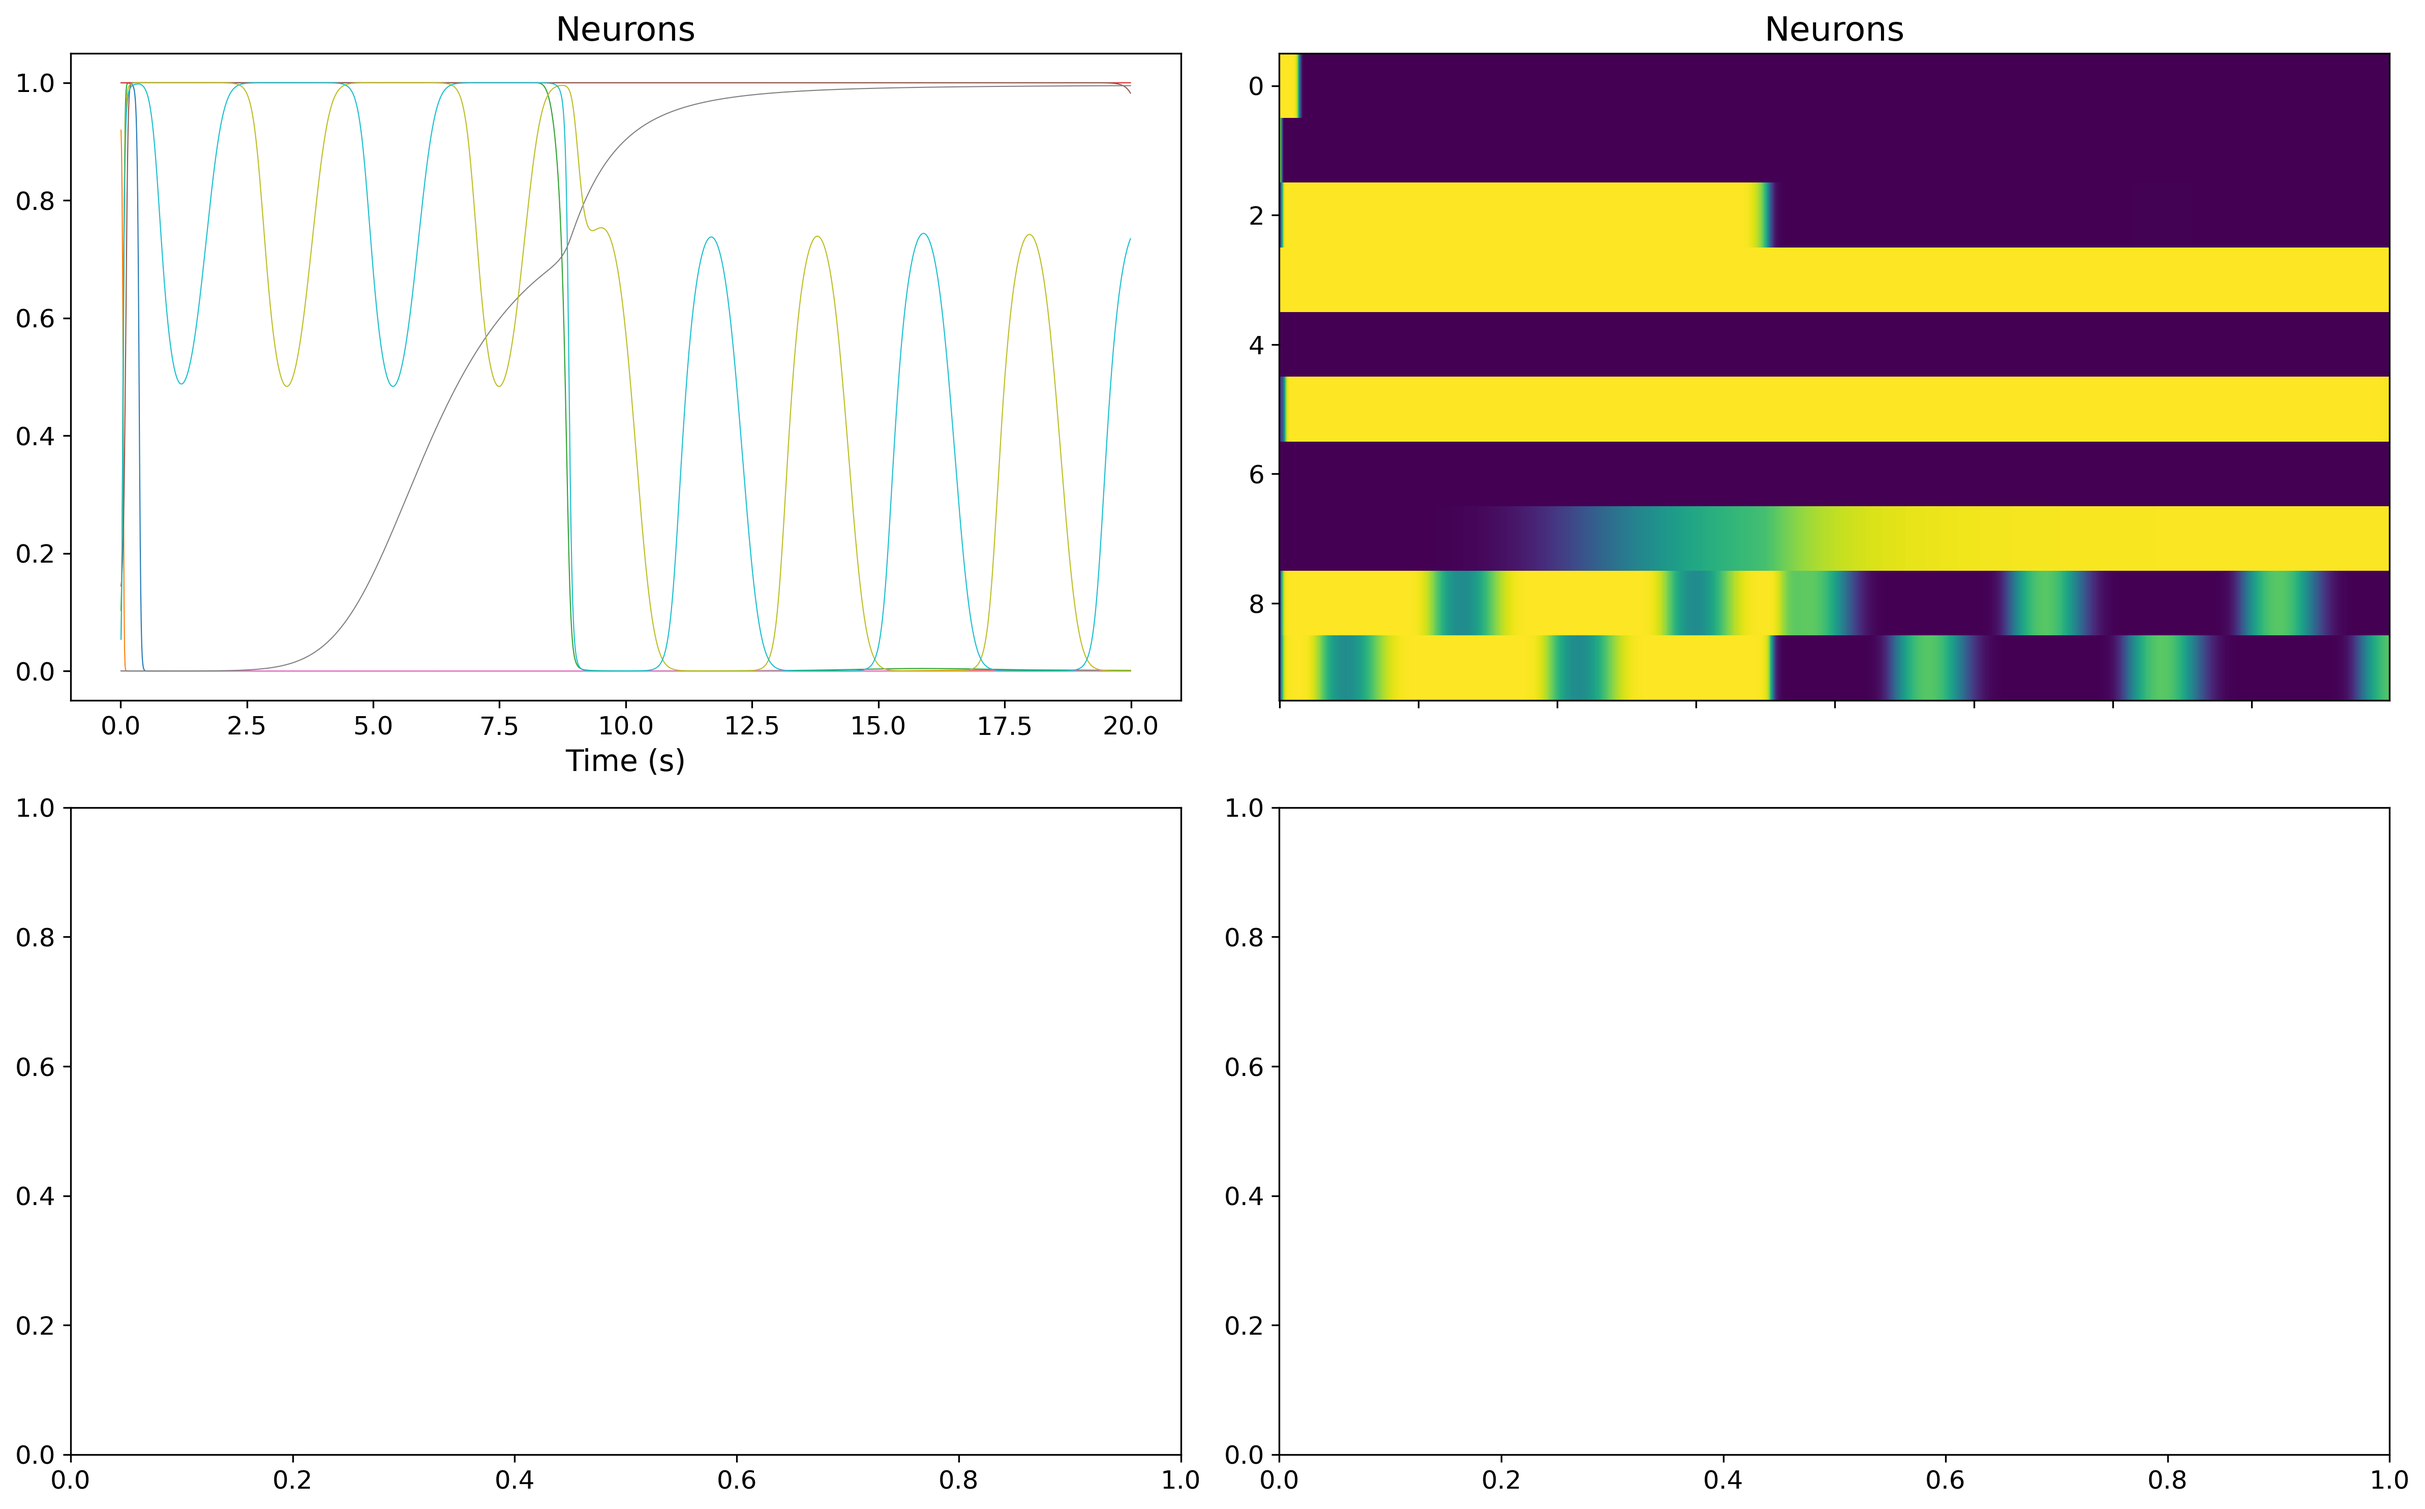
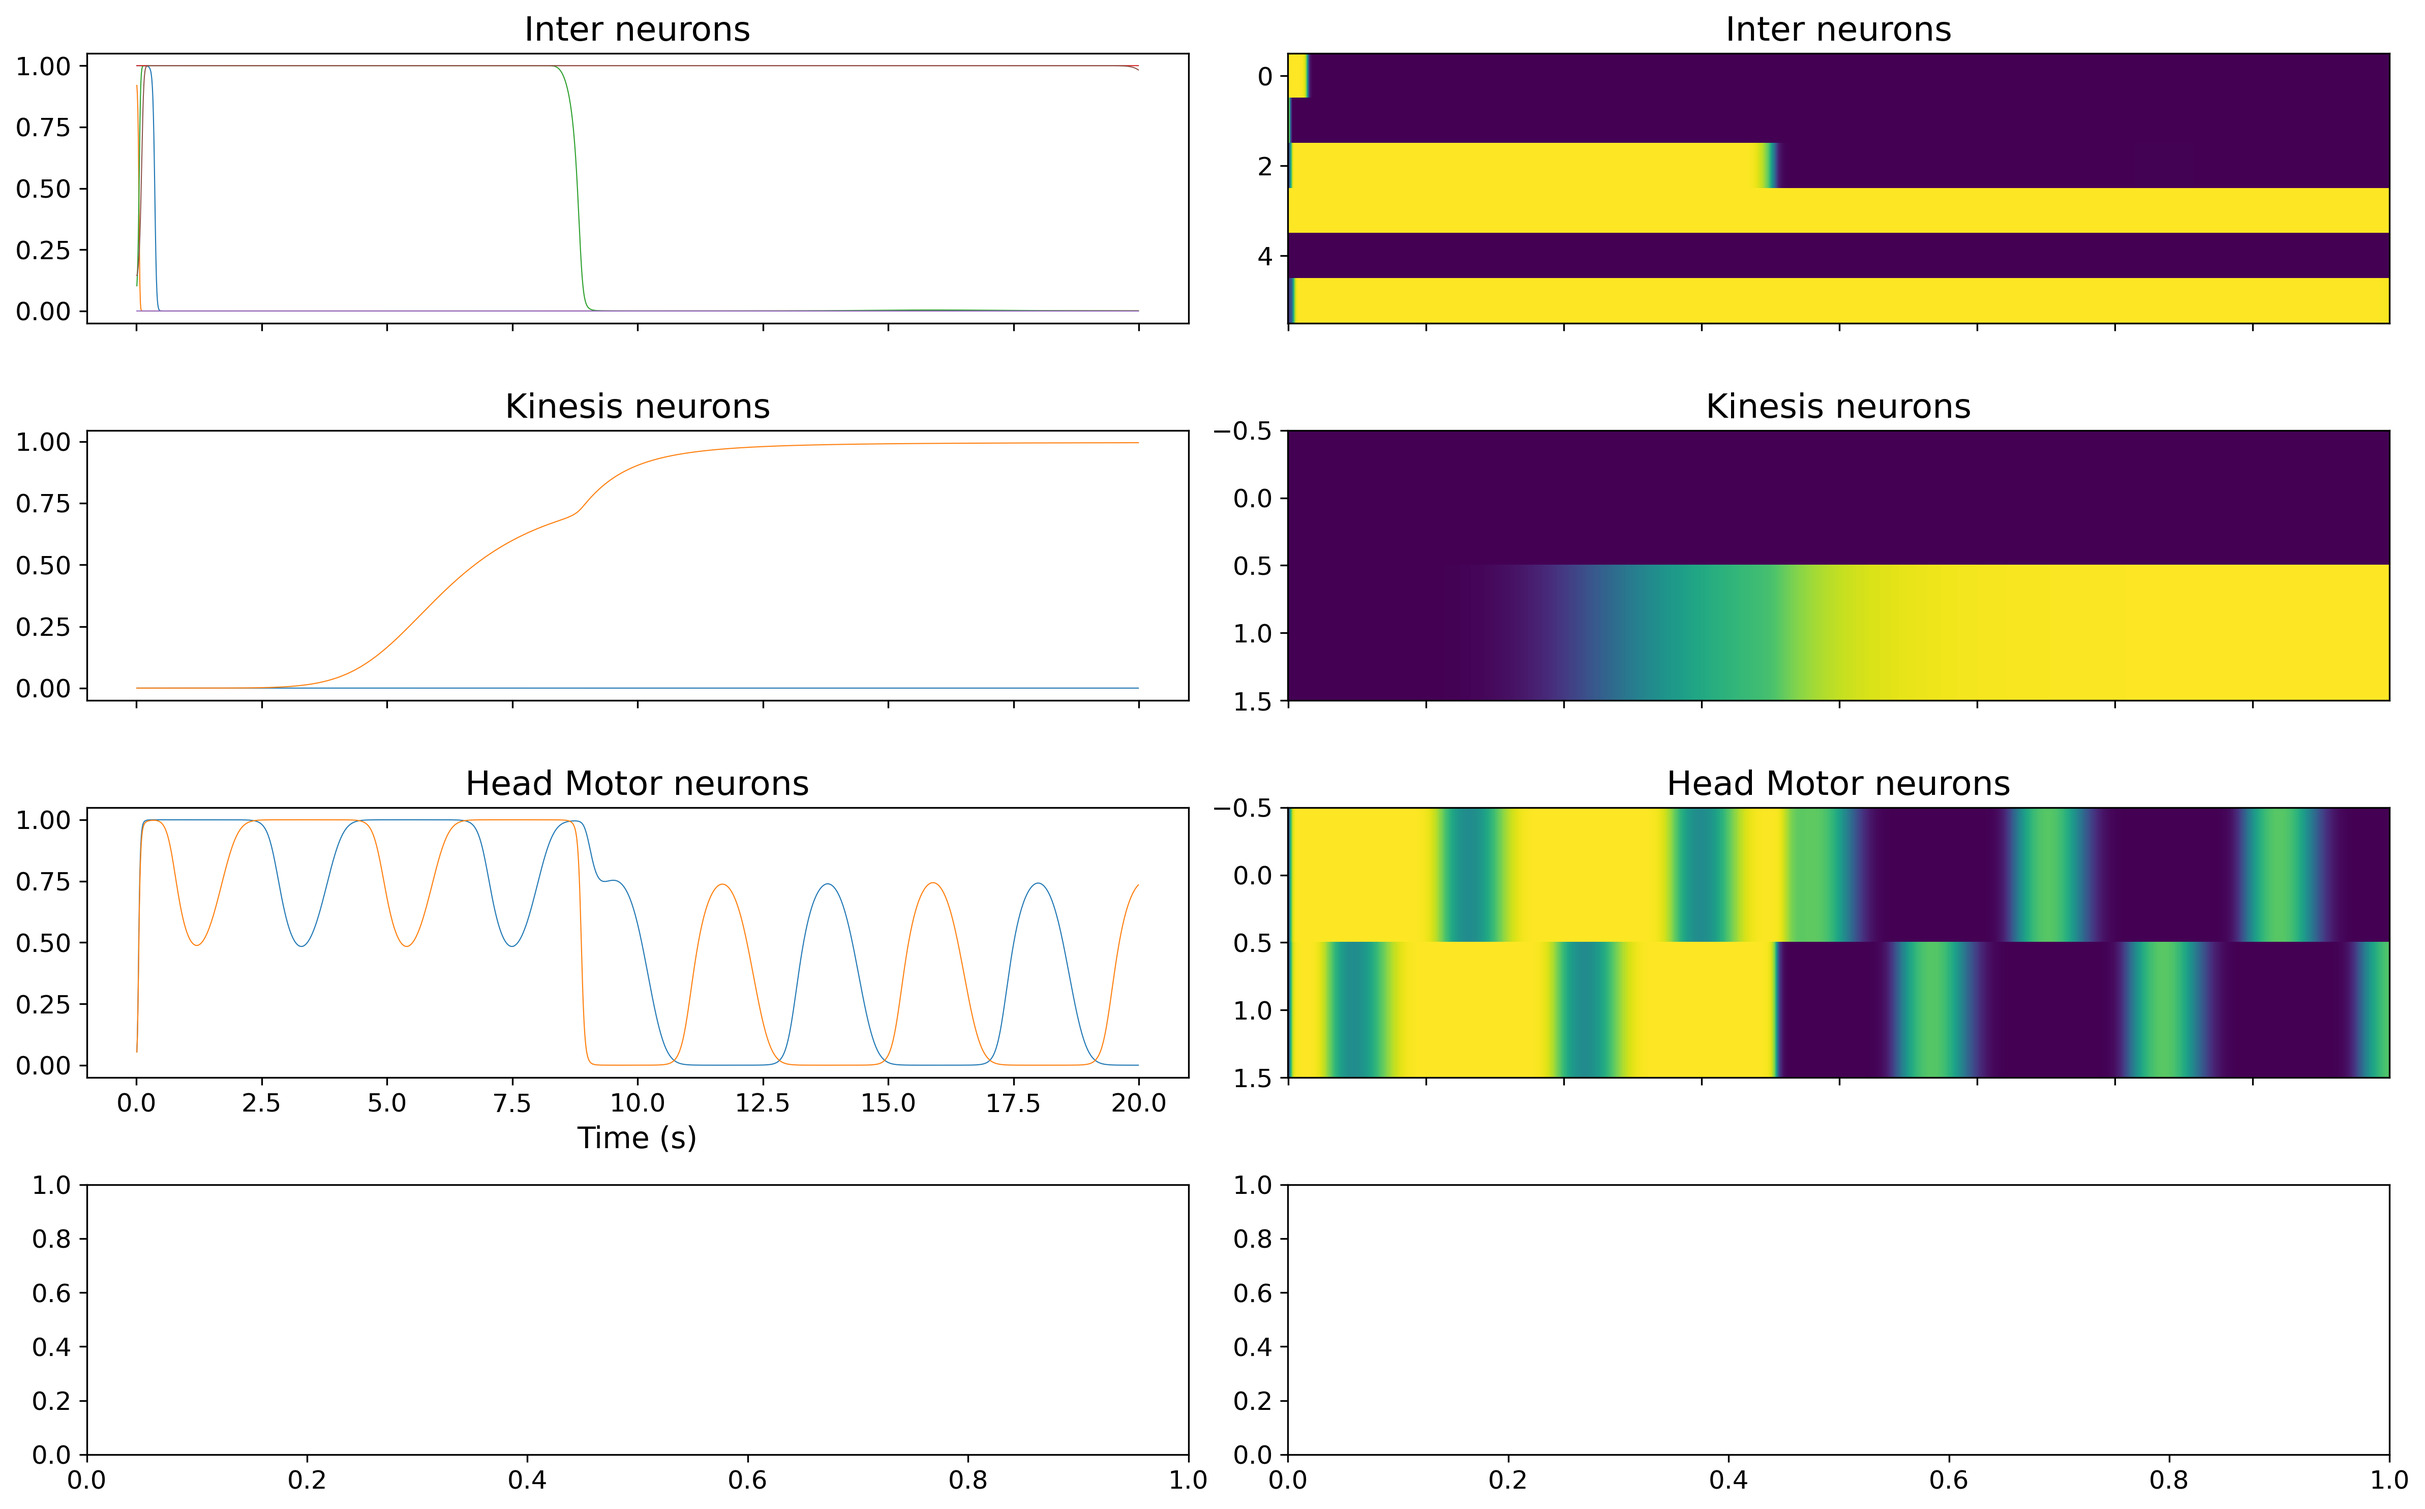
updated CO plotting

diff --git a/Worm2D/Worm2D.cpp b/Worm2D/Worm2D.cpp
@@ -144,31 +144,47 @@ double Worm2Dbody::getVelocity()
 
 }
 
-void Worm2Dm::DumpNSOrdered(ofstream &ofs, int skips)
+void Worm2Dbase::DumpNSOrdered()
 {
 
     //const int NSsize = dynamic_cast<NervousSystem&>(*n_ptr).size;
-    static int tt = skips;
 
-    if (++tt >= skips) {
+    static bool firstcall = true;
+    static size_t pos;
+    static int tt;
+
+    resetStats(firstcall,pos,tt,"ns.dat");
+
+
+    ofstream & ofs = ofsvec[pos];  
+
+
+    if (++tt >= dataskips) {
         tt = 0;
-        ofs << t;
+        ofs << datatime;
         for (int i = 1; i <= par1.N_size; i++) ofs <<  " " << n_ptr->NeuronOutput(i);
-        ofs << "\n";
+        ofs << endl;
     }
 }
 
 
-void Worm2Dm::DumpVal(ofstream &ofs, int skips, double val)
+void Worm2Dbase::DumpVal(string filename_, double val)
 {
-    static int tt = skips;
 
-    if (++tt >= skips) {
+    static bool firstcall = true;
+    static size_t pos;
+    static int tt;
+
+    resetStats(firstcall,pos,tt,filename_);
+
+    ofstream & ofs = ofsvec[pos];  
+
+    if (++tt >= dataskips) {
         tt = 0;
 
-        ofs << t << " " << val;
+        ofs << datatime << " " << val;
     
-        ofs << "\n";
+        ofs << endl;
     }
 }
 

diff --git a/Worm2D/Evolution.cpp b/Worm2D/Evolution.cpp
@@ -179,13 +179,13 @@ void Evolution::RunStandardSimulation(Worm2Dm & w, RandomState &rs){
     const double & Transient = evoPars1.Transient;
     const int & skip_steps = evoPars1.skip_steps;
 
-    ofstream paramsfile, velfile;
+    ofstream paramsfile;//, velfile;
 
     //bodyfile.open(rename_file("body2.dat"));
     //actfile.open(rename_file("act2.dat"));
     //curvfile.open(rename_file("curv2.dat"));
     paramsfile.open(rename_file("sts_params.dat"));
-    velfile.open(rename_file("sts_velocity.dat"));
+    //velfile.open(rename_file("sts_velocity.dat"));
 
     w.setPrefix("sts");
     w.setBasename(itsEvoPars().directoryName);
@@ -215,14 +215,14 @@ void Evolution::RunStandardSimulation(Worm2Dm & w, RandomState &rs){
             //w.DumpBodyState(bodyfile, skip_steps);
             //w.DumpActState(actfile, skip_steps);
             //w.DumpCurvature(curvfile, skip_steps);
-            w.DumpVal(velfile, skip_steps, vel);
+            w.DumpVal("sts_velocity", vel);
         }
 
         
         //bodyfile.close();
         //actfile.close();
         //curvfile.close();
-        velfile.close();
+       // velfile.close();
 
 }
 

diff --git a/Worm2D/Worm2D.h b/Worm2D/Worm2D.h
@@ -113,6 +113,9 @@ void writeJsonFile(ofstream & json_out);
 
 NSForW2D & itsNS(){return *n_ptr;}
 virtual void DumpParams(ofstream &ofs) = 0;
+void DumpNSOrdered();
+void DumpVal(string filename_, double val);
+virtual double getVelocity() = 0;
 
 virtual ~Worm2Dbase(){
         if (m_ptr) delete m_ptr; 
@@ -162,18 +165,18 @@ class Worm2Dm : public Worm2Dbody, public Worm2Dbase
     virtual void setMuscleInput(double StepSize) {return;}
     //virtual void DumpActState(ofstream &ofs, int skips);
     //virtual void DumpActStateState(ofstream &ofs, int skips);
-    void DumpVal(ofstream &ofs, int skips, double val);
+    //void DumpVal(ofstream &ofs, int skips, double val);
     void writeData();
     //virtual void writeAct();
     //void writeState();
-
+    double getVelocity(){return Worm2Dbody::getVelocity();}
     virtual void addParsToJson(json & j);
     //virtual void DumpParams(ofstream &ofs){return;}
 
     //void writeJsonFile(ofstream & json_out);
     
    
-    void DumpNSOrdered(ofstream &ofs, int skips);
+    //void DumpNSOrdered(ofstream &ofs, int skips);
     
     
     //NSForW2D & itsNS(){return *n_ptr;}

diff --git a/F2_fig_behavior.py b/F2_fig_behavior.py
@@ -60,9 +60,9 @@ def make_fig(plot_format):
         * 1000.0
     )
 
-    plot_velocity = True
-    if plot_velocity:
-        vel = np.loadtxt(hf.rename_file("sim_vel.dat")).T
+    #plot_velocity = True
+    #if plot_velocity:
+    #    vel = np.loadtxt(hf.rename_file("sim_vel.dat")).T
     x = body[:, range(1, 154, 3)]
     y = body[:, range(2, 154, 3)]
     xc = np.sum(x, axis=1) / nrods
@@ -131,8 +131,10 @@ def make_fig(plot_format):
     ###############################
     # s = np.where(np.array(sel) == 23)[0]
 
+    plot_velocity = True
     plot_transient = 50.0
     if plot_velocity:
+        vel = np.loadtxt(hf.rename_file("sim_vel.dat")).T
         # ax2.plot(np.linspace(0, 10, len(vel[s][0])), 1000*vel[s][0], 'k', linewidth = 3)
         ax2.plot(vel[0][1:] - plot_transient, 1000 * vel[1][1:], "k", linewidth=3)
         ax2.axhline(y=AvgSpeed, linestyle="--", color="r")

diff --git a/Worm2D/Simulation.h b/Worm2D/Simulation.h
@@ -22,8 +22,8 @@ public:
         //curvfile.open(rename_file("sim_curv.dat"));
         //bodyfile.open(rename_file("sim_body.dat"));
         //actfile.open(rename_file("sim_act.dat"));
-        velfile.open(rename_file("sim_vel.dat"));
-        nsfile.open(rename_file("sim_ns.dat"));
+        //velfile.open(rename_file("sim_vel.dat"));
+        //nsfile.open(rename_file("sim_ns.dat"));
 
     }
     void runSimulation(Worm2Dbase & w);
@@ -32,11 +32,12 @@ public:
     ~Simulation(){
         //actfile.close(); curvfile.close(); 
         //bodyfile.close(); 
-        velfile.close(); nsfile.close();}
+        //velfile.close(); nsfile.close();
+        }
     
 private:
 const simPars sp;
 string rename_file(string filename);
-ofstream velfile, nsfile;
+//ofstream velfile, nsfile;
 
 };

diff --git a/load_data.py b/load_data.py
@@ -66,11 +66,11 @@ plot_formats["CE"]["worm_plot_time"] = 5
 plot_formats["CE"]["do_body_plot"] = True
 
 plot_formats["CO"] = {}
-plot_formats["CO"]["fig_titles"] = ["Neurons"]
-plot_formats["CO"]["data_sizes"] = [10]
-plot_formats["CO"]["fig_labels"] = ["Neu"]
+plot_formats["CO"]["fig_titles"] = ["Inter neurons", "Kinesis neurons", "Head Motor neurons"]
+plot_formats["CO"]["data_sizes"] = [6,2,2]
+plot_formats["CO"]["fig_labels"] = ["Neu", "Kin", "Mot"]
 plot_formats["CO"]["plot_cell_names"] = ["N" + str(i) for i in range(10)]
-plot_formats["CO"]["plot_col_divs"] = [5, 5]
+plot_formats["CO"]["plot_col_divs"] = [6, 4]
 plot_formats["CO"]["plot_time"] = 10
 plot_formats["CO"]["worm_plot_time"] = 5
 plot_formats["CO"]["do_body_plot"] = False

diff --git a/Worm2D/Simulation.cpp b/Worm2D/Simulation.cpp
@@ -19,8 +19,8 @@ void Simulation::runSimulation(Worm2Dbase & w)
         //w.DumpBodyState(bodyfile, sp.skip_steps);
         //w.DumpCurvature(curvfile, sp.skip_steps);
         //w.DumpActState(actfile, sp.skip_steps);
-        //w.DumpVal(velfile,sp.skip_steps,w.getVelocity()/sp.StepSize);
-        //w.DumpNSOrdered(nsfile, sp.skip_steps);
+        w.DumpVal("vel",w.getVelocity()/sp.StepSize);
+        w.DumpNSOrdered();
     }
     
     

diff --git a/Worm2D/WormAgent.h b/Worm2D/WormAgent.h
@@ -106,6 +106,7 @@ public:
 	void setSimPars(double orient_orig_,
 	double gradSteep_, double RunDuration_, double HSStepSize_);
 	void DumpParams(ofstream &ofs){return;}
+	double getVelocity(){return avgvel;}
 
   	/* void setSimPars(double orient_orig_ = 0.0,
 	double gradSteep_ = 0.5,
